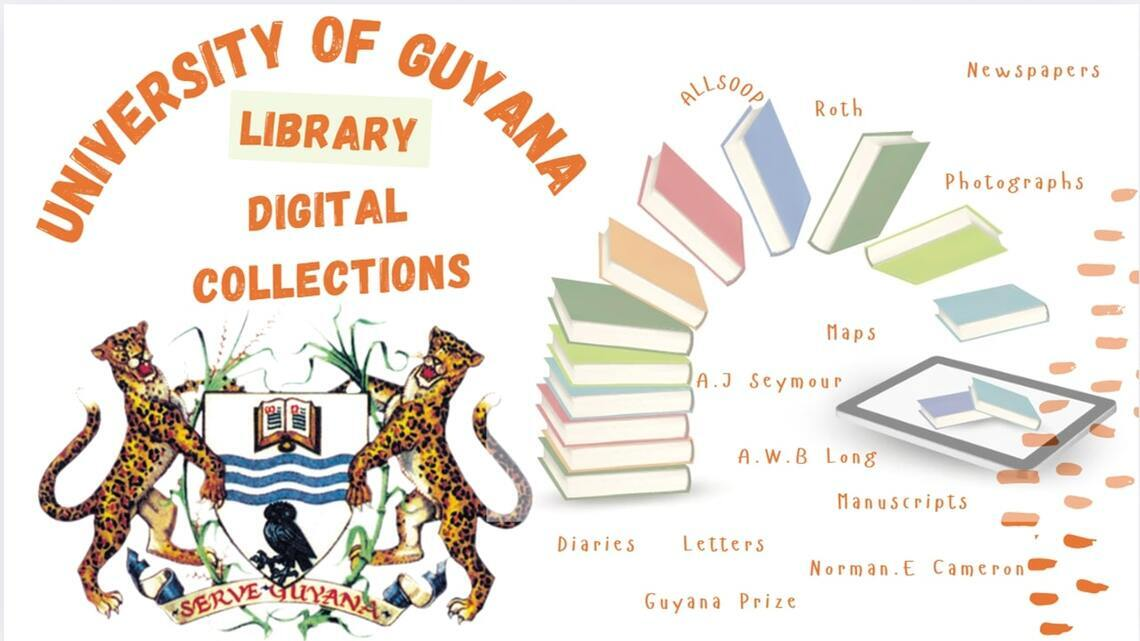
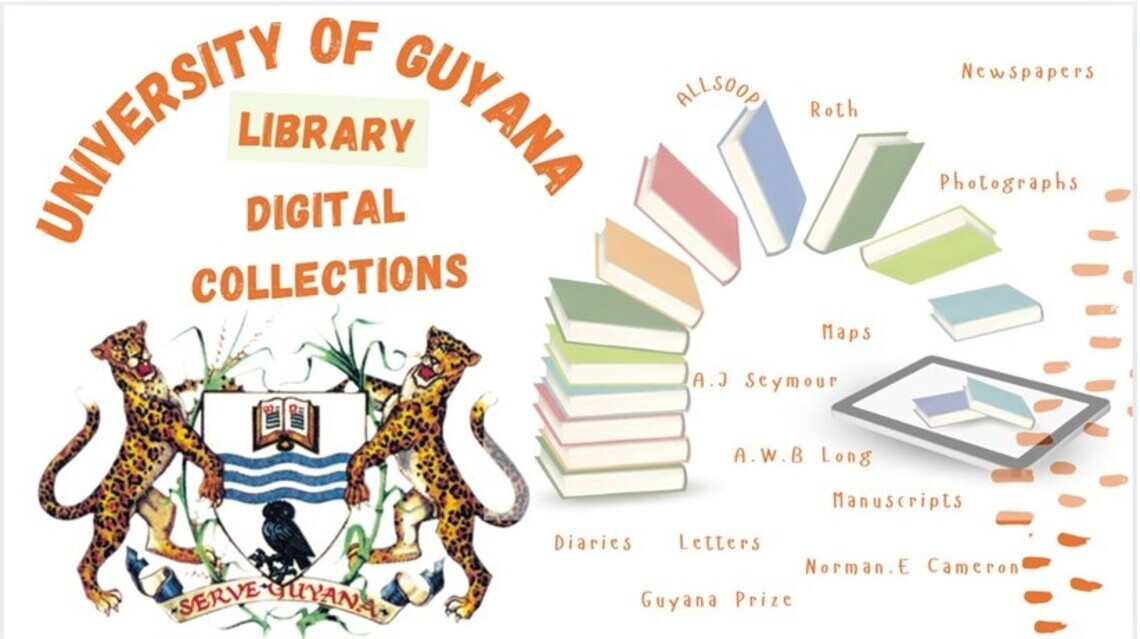
! changes

diff --git a/_includes/head.html b/_includes/head.html
@@ -1,4 +1,4 @@
-<img src="banner.jpg" width="2050" height="150"/>
+<img src="banner.jpg" width="1900" height="150"/>
 <meta charset="utf-8">
   <meta http-equiv="X-UA-Compatible" content="IE=edge">
   <meta name="viewport" content="width=device-width, initial-scale=1">

diff --git a/_minicomp/gy_021.md b/_minicomp/gy_021.md
@@ -3,7 +3,7 @@ pid: gy_021
 label: UGDL
 _date: '2024'
 object_type: Image
-source: https://drive.google.com/file/d/10sF4-oY9b0S7EETOcGwTbH-AMb-NFCIP/view?usp=sharing
+source: https://drive.google.com/file/d/10wxoPJbfSI3n1663tQ1gatt9qnRRTM5D/view?usp=sharing
 order: '23'
 layout: minicomp_item
 collection: minicomp
